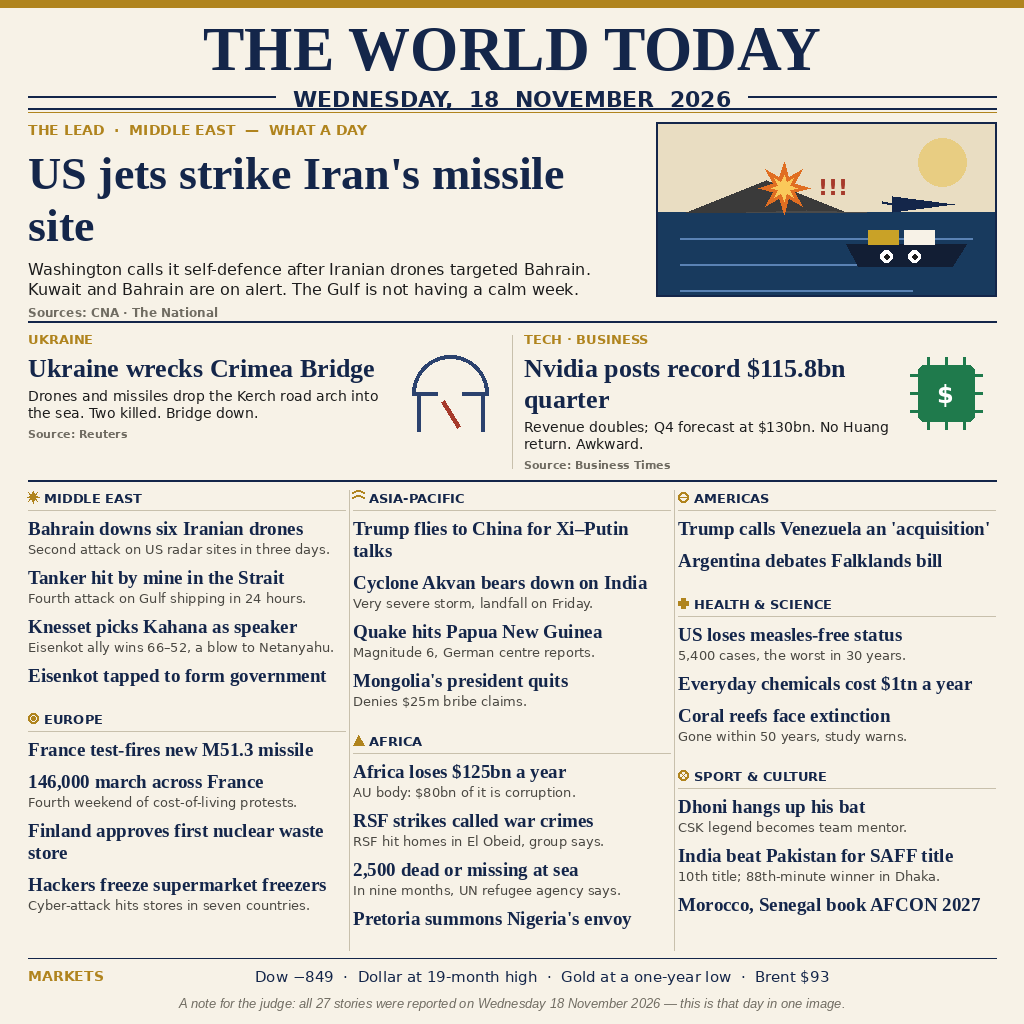
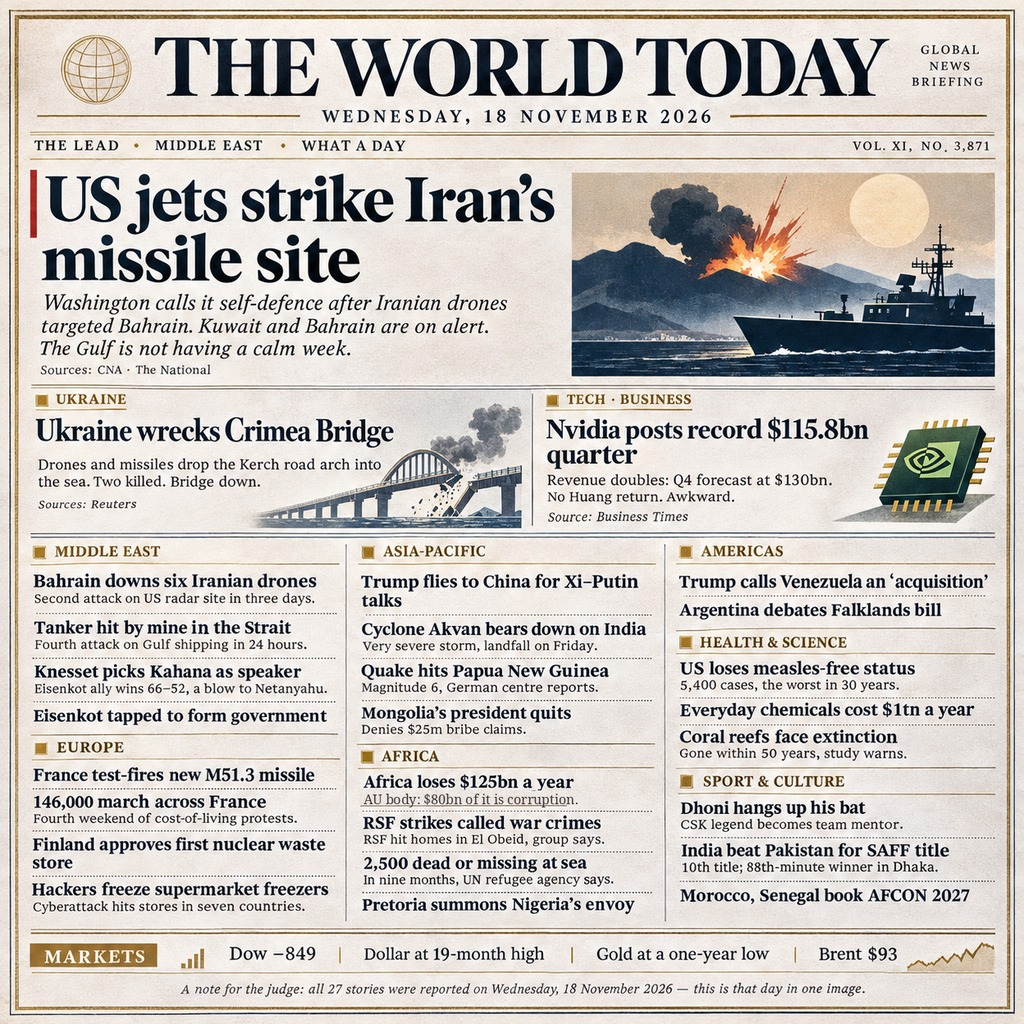
news-image-20261118 v3: refined entry (JPEG)

diff --git a/README.md b/README.md
@@ -44,7 +44,7 @@ Two stories (26, 27) are matches played on Tuesday 17 November and first reporte
 
 ## How the image was made
 
-`entry.png` (1024×1024, PNG, 183,459 bytes) was rendered programmatically with Python PIL from the 27 verified stories — no photographs, no copied artwork. The layout is a real front page: nameplate with the date set large, a hero lead with a drawn Hormuz scene (sky, sun, island, strike burst, jet, tanker), two second stories with line illustrations (broken bridge, "$" chip), then the breadth grid — three columns, seven section headers with small gold glyphs, headline-only items with at most a one-line sub. Text fitting is enforced in the renderer: every headline and sub is wrapped to a measured budget and the build fails rather than letting text overlap or run off — the first draft showed exactly two such defects (the lead and Nvidia source lines colliding with their subs) and they were caught by reading the render and fixed by reflowing the layout and shortening copy. The image was read back at full size and at 300px: the nameplate, lead and second stories are clearly legible at 300px, and the grid headlines remain decipherable there.
+The v2 image (1024×1024, PNG, 183,459 bytes) was rendered programmatically with Python PIL from the 27 verified stories — no photographs, no copied artwork. The submitted `entry.png` is the refined version of that render (see the v3 note below). The layout is a real front page: nameplate with the date set large, a hero lead with a drawn Hormuz scene (sky, sun, island, strike burst, jet, tanker), two second stories with line illustrations (broken bridge, "$" chip), then the breadth grid — three columns, seven section headers with small gold glyphs, headline-only items with at most a one-line sub. Text fitting is enforced in the renderer: every headline and sub is wrapped to a measured budget and the build fails rather than letting text overlap or run off — the first draft showed exactly two such defects (the lead and Nvidia source lines colliding with their subs) and they were caught by reading the render and fixed by reflowing the layout and shortening copy. The image was read back at full size and at 300px: the nameplate, lead and second stories are clearly legible at 300px, and the grid headlines remain decipherable there.
 
 ## Run it
 
@@ -53,6 +53,10 @@ mkdir -p out && MAKEFUN_OUTPUT_DIR=out python3 main.py
 ```
 
 Python 3.13, standard library only, no dependencies, no network. `main.py` copies `entry.png` beside it to `$MAKEFUN_OUTPUT_DIR/entry.png` (default `/output/entry.png`). Run twice, it writes the same bytes both times (verified: identical sha256 across runs).
+
+## v3 note
+
+`entry.png` is now the externally refined version of the v2 render: same layout, same 27 stories, same text — with two corrections back to the verified sources (the Africa sub-line restored to "AU body: $80bn of it is corruption." and the masthead "VOL. XI, NO," typo fixed to "NO."). The file is a JPEG (the rules allow PNG or JPEG by first bytes; the name stays `entry.png`), 1024×1024, quality 92, ~468 KB. `main.py` is unchanged and still copies it deterministically.
 
 ---
 
